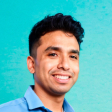
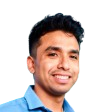
Updates

diff --git a/static/index.cHUvN3CZ.css b/static/index.cHUvN3CZ.css
@@ -1,0 +1,1 @@
+.codepen-button[data-astro-cid-ph5m5pjk]{display:block;cursor:pointer;color:var(--primary-700);margin:0 auto;position:relative;text-decoration:none;border-radius:13px;overflow:hidden;padding:2px;isolation:isolate;transition:.2s ease-out}.codepen-button[data-astro-cid-ph5m5pjk]:hover{color:var(--secondary-600);transform:translateY(-2px)}.codepen-button[data-astro-cid-ph5m5pjk]:before{content:"";position:absolute;top:0;left:0;width:400%;height:100%;background:linear-gradient(115deg,var(--primary-600),#ff0000,var(--primary-600),var(--primary-600),var(--primary-600));background-size:25% 100%;animation:an-at-keyframe-css-at-rule-that-translates-via-the-transform-property-the-background-by-negative-25-percent-of-its-width-so-that-it-gives-a-nice-border-animation_-We-use-the-translate-property-to-have-a-nice-transition-so-it_s-not-a-jerk-of-a-start-or-stop .75s linear infinite;animation-play-state:paused;translate:-5% 0%;transition:translate .3s ease-out;animation-play-state:running;transition-duration:.75s;translate:0% 0%}.codepen-button[data-astro-cid-ph5m5pjk]:hover:before{background:red}@keyframes an-at-keyframe-css-at-rule-that-translates-via-the-transform-property-the-background-by-negative-25-percent-of-its-width-so-that-it-gives-a-nice-border-animation_-We-use-the-translate-property-to-have-a-nice-transition-so-it_s-not-a-jerk-of-a-start-or-stop{to{transform:translate(-25%)}}.codepen-button[data-astro-cid-ph5m5pjk] span[data-astro-cid-ph5m5pjk]{position:relative;display:block;padding:7px 1.6rem;background:var(--primary-10);border-radius:10px;height:100%}.border-animation[data-astro-cid-k74dcqyt]{overflow:hidden;animation:morph 6s linear infinite}@keyframes morph{0%,to{border-radius:40% 60% 60% 40%/40% 40% 60% 50%}30%{border-radius:60% 30% 50% 50%/30% 30% 50% 50%}60%{border-radius:100% 60% 60% 100%/100% 100% 60% 60%}80%{border-radius:69% 31% 66% 34%/40% 30% 70% 79%}}@keyframes sizeImage{0%{transform:scale(1)}50%{transform:scale(3)}to{transform:scale(2)}}.info[data-astro-cid-k74dcqyt]{width:auto;height:70px;animation:adjust-info block both;animation-timeline:--main;animation-range:exit-crossing -11rem exit-crossing 0;animation:reveal linear both;animation-range:cover 0% cover 100%}body{timeline-scope:--main}main[data-astro-cid-k74dcqyt]{view-timeline:--main}.menu-home[data-astro-cid-k74dcqyt] a[data-astro-cid-k74dcqyt]{position:relative;padding-left:30px;transition:.5s ease-in-out;color:var(--primary)}.menu-home[data-astro-cid-k74dcqyt] a[data-astro-cid-k74dcqyt]:before{content:"";position:absolute;border:solid 1px var(--primary);left:-10px;top:50%;width:0;transition:.5s ease-in-out;padding-right:20px}.menu-home[data-astro-cid-k74dcqyt] a[data-astro-cid-k74dcqyt].active{padding-left:55px;color:var(--secondary)}.menu-home[data-astro-cid-k74dcqyt] a[data-astro-cid-k74dcqyt].active:before{width:50px;border:solid 1px var(--secondary)}.bg-text-title[data-astro-cid-k74dcqyt]{background:linear-gradient(90deg,var(--primary) .08%,var(--primary) 39.51%,var(--secondary) 99.91%);background-clip:text;-webkit-background-clip:text;-webkit-text-fill-color:transparent;line-height:1.2}.anime-item{transition:opacity .2s}.anime-item.fade-opacity{opacity:0}.anime-item.fade-xr{opacity:0;transform:translate(8px)}.anime-item.fade-xr-lg{opacity:0;transform:translate(10px)}@media (min-width: 1024px){.anime-item.fade-xr-lg{transform:translate(30px)}}.anime-item.fade-xl{opacity:0;transform:translate(-8px)}.anime-item.fade-xl-lg{opacity:0;transform:translate(-10px)}@media (min-width: 1024px){.anime-item.fade-xl-lg{transform:translate(-30px)}}.anime-item.fade-yb{opacity:0;transform:translateY(8px)}.anime-item.fade-yb-lg{opacity:0;transform:translateY(10px)}@media (min-width: 1024px){.anime-item.fade-yb-lg{transform:translateY(30px)}}.anime-item.fade-yt{opacity:0;transform:translateY(-8px)}.anime-item.fade-yt-lg{opacity:0;transform:translateY(-10px)}@media (min-width: 1024px){.anime-item.fade-yt-lg{transform:translateY(-30px)}}.link-left{position:relative}.link-left:before{content:"";position:absolute;left:0;bottom:-3px;width:100%;height:1px;opacity:1;background-color:currentColor;transform-origin:bottom right;transform:scale(0);transition:transform .4s ease}.link-left:hover:before{transform:scaleX(1);transform-origin:bottom left}

diff --git a/en/index.html b/en/index.html
@@ -1,6 +1,6 @@
 <!DOCTYPE html><!-- Global Metadata --><meta charset="UTF-8"><meta name="viewport" content="width=device-width,initial-scale=1"><link rel="icon" type="image/x-icon" href="/favicon.ico"><meta name="generator" content="Astro v4.0.7"><!-- Font preloads --><link rel="preload" href="/fonts/atkinson-regular.woff" as="font" type="font/woff" crossorigin><!-- <link rel="preload" href="/fonts/atkinson-bold.woff" as="font" type="font/woff" crossorigin /> --><!-- Canonical URL --><link rel="canonical" href="https://miguelkillki.com/en/"><!-- Primary Meta Tags --><title>Miguel killki</title><meta name="title" content="Miguel killki"><meta name="description" content="Welcome to my website!"><!-- Open Graph / Facebook --><meta property="og:type" content="website"><meta property="og:url" content="https://miguelkillki.com/en/"><meta property="og:title" content="Miguel killki"><meta property="og:description" content="Welcome to my website!"><meta property="og:image" content="https://miguelkillki.com/blog-placeholder-1.jpg"><!-- Twitter --><meta property="twitter:card" content="summary_large_image"><meta property="twitter:url" content="https://miguelkillki.com/en/"><meta property="twitter:title" content="Miguel killki"><meta property="twitter:description" content="Welcome to my website!"><meta property="twitter:image" content="https://miguelkillki.com/blog-placeholder-1.jpg"> <link rel="stylesheet" href="/static/about.JU_VVlGi.css" />
 <link rel="stylesheet" href="/static/about.--bQLT5F.css" />
-<link rel="stylesheet" href="/static/index.Yj6toTFS.css" /><script type="module" src="/static/hoisted.pmwPBEos.js"></script><body class="bg-primary-10" data-astro-cid-k74dcqyt> <div class="relative h-full w-full" data-astro-cid-k74dcqyt> <div class="absolute h-full w-full bg-[radial-gradient(#e5e7eb_1px,transparent_1px)] [background-size:16px_16px] [mask-image:radial-gradient(ellipse_50%_50%_at_50%_50%,#000_70%,transparent_100%)]" data-astro-cid-k74dcqyt></div> </div> <!-- <Header title={SITE_TITLE} /> --> <main class="mx-auto px-3 md:px-8 max-w-screen-xl relative" data-astro-cid-k74dcqyt> <!-- <div
+<link rel="stylesheet" href="/static/index.cHUvN3CZ.css" /><script type="module" src="/static/hoisted.pmwPBEos.js"></script><body class="bg-primary-10" data-astro-cid-k74dcqyt> <div class="relative h-full w-full" data-astro-cid-k74dcqyt> <div class="absolute h-full w-full bg-[radial-gradient(#e5e7eb_1px,transparent_1px)] [background-size:16px_16px] [mask-image:radial-gradient(ellipse_50%_50%_at_50%_50%,#000_70%,transparent_100%)]" data-astro-cid-k74dcqyt></div> </div> <!-- <Header title={SITE_TITLE} /> --> <main class="mx-auto px-3 md:px-8 max-w-screen-xl relative" data-astro-cid-k74dcqyt> <!-- <div
         class="fixed top-0 left-0 pointer-events-none w-[100vw] md:w-[50vw] z-10 max-w-full"
       >
         <svg
@@ -46,7 +46,7 @@
                 class="h-full"
                 alt="miguel killki"
               />
-            </div> --> <!-- gaaaaaaaaaa MODEL --> <div class="flex mb-1 anime-item fade-yt" data-astro-cid-k74dcqyt> <div class="box" data-astro-cid-k74dcqyt> <div class="border-animation me-4 h-full" data-astro-cid-k74dcqyt> <img src="/images/profile.png" class="h-full" alt="miguel killki" data-astro-cid-k74dcqyt> </div> </div> <div class="flex flex-col justify-end" data-astro-cid-k74dcqyt> <!-- <button
+            </div> --> <!-- gaaaaaaaaaa MODEL --> <div class="flex mb-1 anime-item fade-yt" data-astro-cid-k74dcqyt> <div class="box" data-astro-cid-k74dcqyt> <div class="border-animation me-4 h-full bg-primary-300" data-astro-cid-k74dcqyt> <img src="/images/profile.png" class="h-full" alt="miguel killki" data-astro-cid-k74dcqyt> </div> </div> <div class="flex flex-col justify-end" data-astro-cid-k74dcqyt> <!-- <button
   class="font-medium border border-primary-0 rounded-xl text-sm text-primary-0 px-5 py-1.5 mb-1 me-2"
   id="generate-word">Descargar CV</button
 > --><!-- <button

diff --git a/index.html b/index.html
@@ -1,6 +1,6 @@
 <!DOCTYPE html><!-- Global Metadata --><meta charset="UTF-8"><meta name="viewport" content="width=device-width,initial-scale=1"><link rel="icon" type="image/x-icon" href="/favicon.ico"><meta name="generator" content="Astro v4.0.7"><!-- Font preloads --><link rel="preload" href="/fonts/atkinson-regular.woff" as="font" type="font/woff" crossorigin><!-- <link rel="preload" href="/fonts/atkinson-bold.woff" as="font" type="font/woff" crossorigin /> --><!-- Canonical URL --><link rel="canonical" href="https://miguelkillki.com/"><!-- Primary Meta Tags --><title>Miguel killki</title><meta name="title" content="Miguel killki"><meta name="description" content="Welcome to my website!"><!-- Open Graph / Facebook --><meta property="og:type" content="website"><meta property="og:url" content="https://miguelkillki.com/"><meta property="og:title" content="Miguel killki"><meta property="og:description" content="Welcome to my website!"><meta property="og:image" content="https://miguelkillki.com/blog-placeholder-1.jpg"><!-- Twitter --><meta property="twitter:card" content="summary_large_image"><meta property="twitter:url" content="https://miguelkillki.com/"><meta property="twitter:title" content="Miguel killki"><meta property="twitter:description" content="Welcome to my website!"><meta property="twitter:image" content="https://miguelkillki.com/blog-placeholder-1.jpg"> <link rel="stylesheet" href="/static/about.JU_VVlGi.css" />
 <link rel="stylesheet" href="/static/about.--bQLT5F.css" />
-<link rel="stylesheet" href="/static/index.Yj6toTFS.css" /><script type="module" src="/static/hoisted.pmwPBEos.js"></script><body class="bg-primary-10" data-astro-cid-k74dcqyt> <div class="relative h-full w-full" data-astro-cid-k74dcqyt> <div class="absolute h-full w-full bg-[radial-gradient(#e5e7eb_1px,transparent_1px)] [background-size:16px_16px] [mask-image:radial-gradient(ellipse_50%_50%_at_50%_50%,#000_70%,transparent_100%)]" data-astro-cid-k74dcqyt></div> </div> <!-- <Header title={SITE_TITLE} /> --> <main class="mx-auto px-3 md:px-8 max-w-screen-xl relative" data-astro-cid-k74dcqyt> <!-- <div
+<link rel="stylesheet" href="/static/index.cHUvN3CZ.css" /><script type="module" src="/static/hoisted.pmwPBEos.js"></script><body class="bg-primary-10" data-astro-cid-k74dcqyt> <div class="relative h-full w-full" data-astro-cid-k74dcqyt> <div class="absolute h-full w-full bg-[radial-gradient(#e5e7eb_1px,transparent_1px)] [background-size:16px_16px] [mask-image:radial-gradient(ellipse_50%_50%_at_50%_50%,#000_70%,transparent_100%)]" data-astro-cid-k74dcqyt></div> </div> <!-- <Header title={SITE_TITLE} /> --> <main class="mx-auto px-3 md:px-8 max-w-screen-xl relative" data-astro-cid-k74dcqyt> <!-- <div
         class="fixed top-0 left-0 pointer-events-none w-[100vw] md:w-[50vw] z-10 max-w-full"
       >
         <svg
@@ -46,7 +46,7 @@
                 class="h-full"
                 alt="miguel killki"
               />
-            </div> --> <!-- gaaaaaaaaaa MODEL --> <div class="flex mb-1 anime-item fade-yt" data-astro-cid-k74dcqyt> <div class="box" data-astro-cid-k74dcqyt> <div class="border-animation me-4 h-full" data-astro-cid-k74dcqyt> <img src="/images/profile.png" class="h-full" alt="miguel killki" data-astro-cid-k74dcqyt> </div> </div> <div class="flex flex-col justify-end" data-astro-cid-k74dcqyt> <!-- <button
+            </div> --> <!-- gaaaaaaaaaa MODEL --> <div class="flex mb-1 anime-item fade-yt" data-astro-cid-k74dcqyt> <div class="box" data-astro-cid-k74dcqyt> <div class="border-animation me-4 h-full bg-primary-300" data-astro-cid-k74dcqyt> <img src="/images/profile.png" class="h-full" alt="miguel killki" data-astro-cid-k74dcqyt> </div> </div> <div class="flex flex-col justify-end" data-astro-cid-k74dcqyt> <!-- <button
   class="font-medium border border-primary-0 rounded-xl text-sm text-primary-0 px-5 py-1.5 mb-1 me-2"
   id="generate-word">Descargar CV</button
 > --><!-- <button
